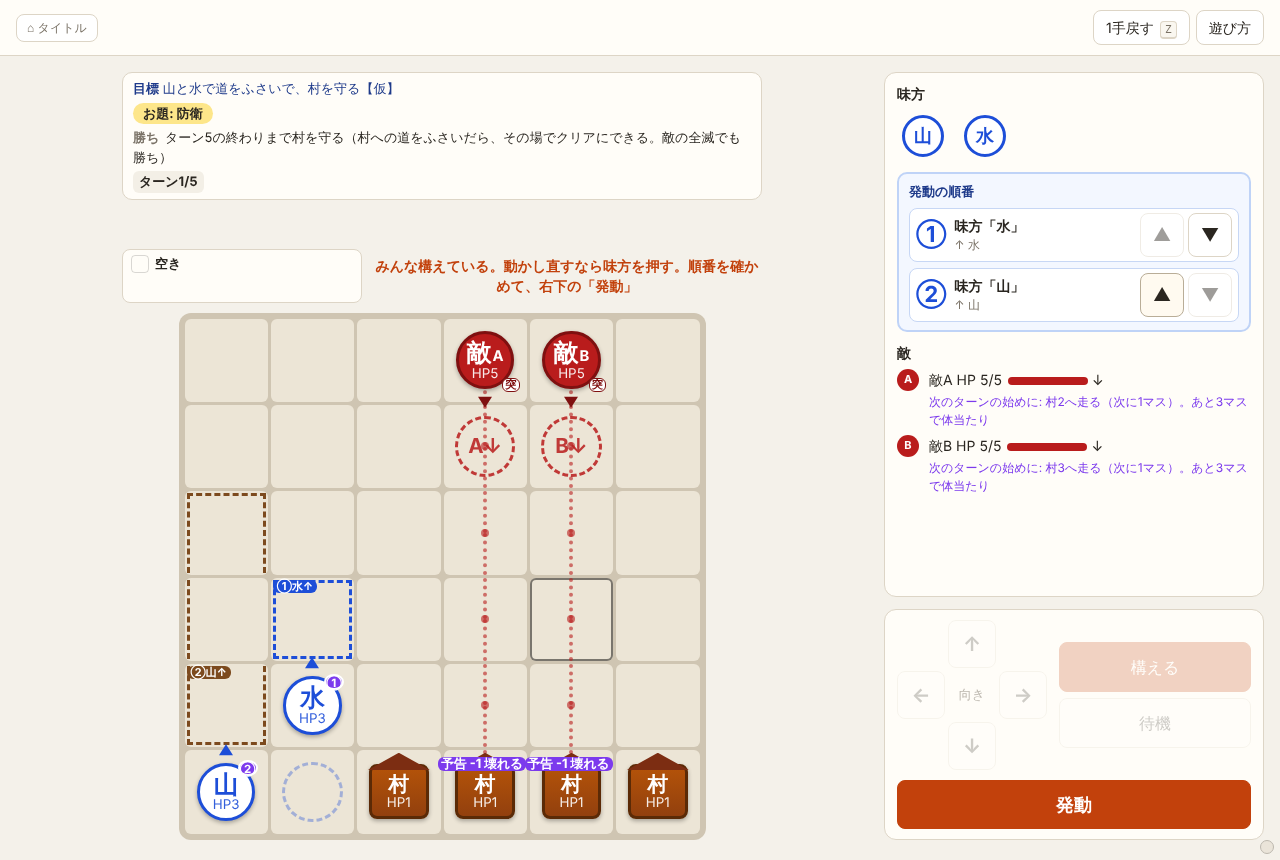
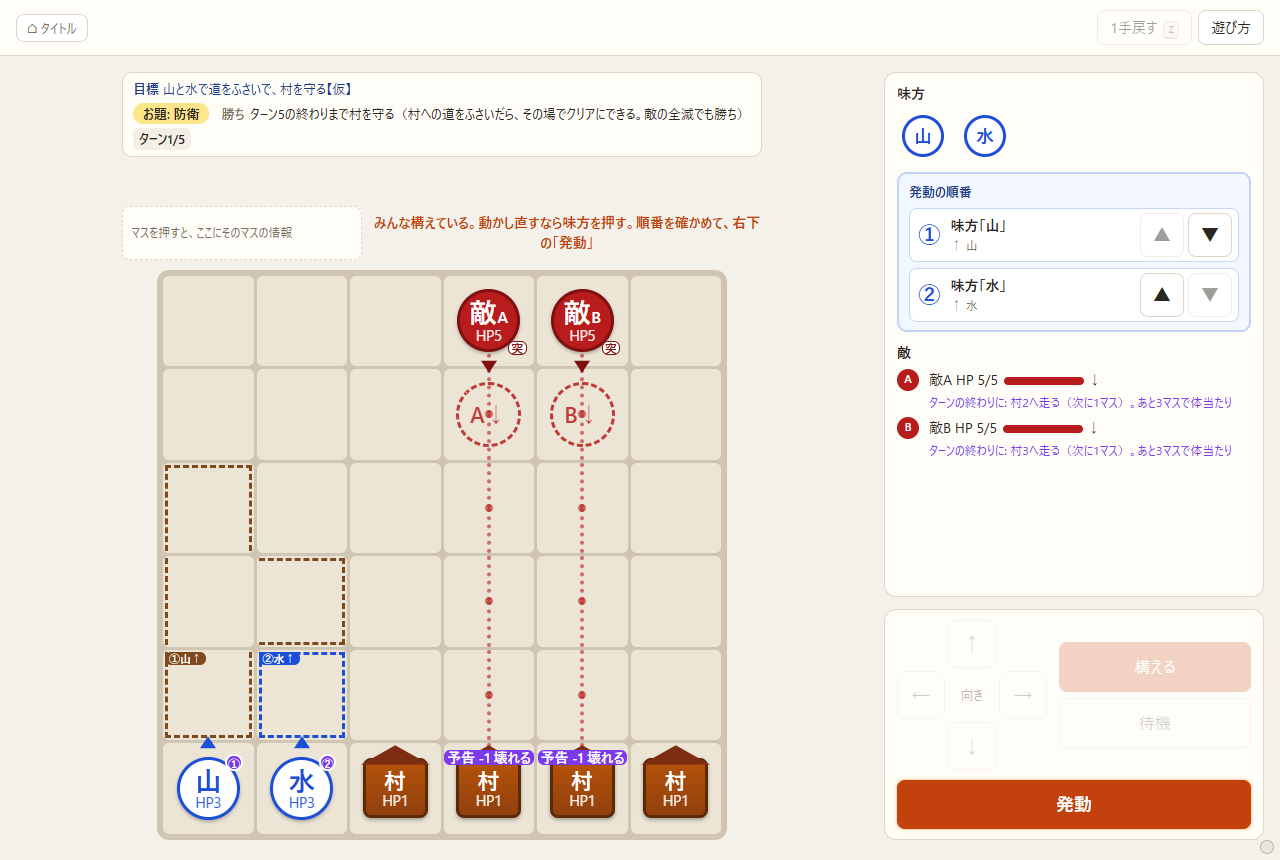
古くなった説明を今に合わせる（オーナー 11/08「直しておいて」）
- 済んだ仕様書 .claude/IMPROVE_設定.md を archive/仕様と調査/ へ移す（CLAUDE.md 11章）。コードの中の場所の書き方も直す（コメントだけ）
- .claude/HD-2D_方針: 頭の「まだ作らない」を「段1〜3 はできた。段4 と展示に出すのはまだ」に。外した tests/snapshot.js と DECISIONS.md の言い方も今に
- NOTES.md: テストの件数（run.js 307件）と settings.js を足す
- docs/img/02_遊ぶ画面.png: 撮り直し（敵の欄が前の「次のターンの始めに」のままだった。今は「ターンの終わりに」）
- docs/img/03_開発の最初の画面.png: 撮り直し（「設定」ボタンが写っていなかった）

diff --git a/game/ui.js b/game/ui.js
@@ -43,7 +43,7 @@
   var KEY_DIR = { ArrowUp: 'up', ArrowRight: 'right', ArrowDown: 'down', ArrowLeft: 'left', w: 'up', a: 'left', s: 'down', d: 'right', W: 'up', A: 'left', S: 'down', D: 'right' };
   var SHORT = { empty: '空き', forest: '森', mountain: '山', river: '川', fire: '炎', smallfire: '小炎', volcano: '火山', mud: '泥沼', puddle: '水たまり', mirage: '蜃気楼', ice: '氷', lava: '溶岩', whirlwind: 'つむじ風', tornado: '竜巻', breeze: '風', firewhirl: '火の渦', sakura: '桜', petals: '花びら', deadforest: '死の森', haunted: 'オバケヤシキ', hill: '丘', thicket: '草むら', gale: '強風', hillsakura: '丘の桜' };
   Object.keys(R.TILE_INFO).forEach(function (t) { if (!SHORT[t]) SHORT[t] = R.TILE_INFO[t].name; });
-  // 設定（オーナー 11/03。game/settings.js・.claude/IMPROVE_設定.md）: 画面の主な色と、名前（自然・マップの字・魔法・シナジー）。
+  // 設定（オーナー 11/03。game/settings.js・archive/仕様と調査/IMPROVE_設定.md）: 画面の主な色と、名前（自然・マップの字・魔法・シナジー）。
   //   開いたらすぐ、このブラウザの写しを当てる。共有の置き場所から読んだら、そちらを当てる（fetchShared）
   var CS = window.CafiliaSettings;
   var SHORT0 = {};
@@ -2503,7 +2503,7 @@
       (dirty ? '<p class="note">まだ展示モードは変わっていません。「この並びで展示する」を押すと変わります。</p>' : app.lineupSaved ? '<p class="note">展示モードの並びを、この並びにしました。</p>' : '');
   }
   // ---------------------------------------------------------------
-  // 設定の画面（開発モード。オーナー 11/03。.claude/IMPROVE_設定.md）: 画面の主な色（RGB）と、名前（自然・マップの字・魔法・シナジー）。
+  // 設定の画面（開発モード。オーナー 11/03。archive/仕様と調査/IMPROVE_設定.md）: 画面の主な色（RGB）と、名前（自然・マップの字・魔法・シナジー）。
   //   変えるとすぐ、このページに当たって見える（下書き app.settingsDraft）。「この設定で保存する」で共有の置き場所へ。
   //   保存すると、どのパソコンの展示モード・開発モードもこの設定で出る（展示の並びと同じ）。やめたら保存した設定に戻す
   // ---------------------------------------------------------------

diff --git a/game/settings.js b/game/settings.js
@@ -1,5 +1,5 @@
 /*
- * settings.js — 設定: 画面の主な色と、名前（自然・マップの字・魔法・シナジー）を変える（オーナー 11/03。.claude/IMPROVE_設定.md）
+ * settings.js — 設定: 画面の主な色と、名前（自然・マップの字・魔法・シナジー）を変える（オーナー 11/03。archive/仕様と調査/IMPROVE_設定.md）
  *   設定は共有の置き場所（Cloudflare の KV の settings。tools/stage_worker.mjs）に置き、展示モードもその設定で出す。
  *   このブラウザにも写し（CACHE_KEY）を覚えて、開いたらすぐ（つながる前に）その色で出す。つながらないときは写しか、元の色と名前。
  *   形: { colors: { '--bg': '#rrggbb', … }, tiles: { forest: { name, label } }, magics: { grass: '草' }, synergies: { 燃え広がり: '…' }, at }

diff --git a/.claude/HD-2D_方針_20261031.md b/.claude/HD-2D_方針_20261031.md
@@ -1,4 +1,4 @@
-# HD-2D にする方針（10/31。まだ作らない）
+# HD-2D にする方針（10/31。段1〜3 はできた。段4 と展示に出すのはまだ）
 
 真上から見下ろす盤面に、角度をつけて**奥行き**を出す。3D の模型にはしない（オーナー 10/31「3D というより、奥行きを付けたい」）。
 絵は平らな画像のまま。盤を傾けて奥を遠くに見せ、キャラ・村・トロッコは今の駒を立て（ビルボード）、山は高く見せる。
@@ -12,7 +12,7 @@
 
 ## 方針
 
-1. **変えるのは見た目だけ。** rules.js・balance.js に触れない。`node tests/run.js`・`tests/scenarios.js`・`tests/snapshot.js` の結果は1文字も変わらない（例外は下の「トロッコ」の名前だけ）。
+1. **変えるのは見た目だけ。** rules.js・balance.js に触れない。`node tests/run.js`・`tests/scenarios.js` の結果は1文字も変わらない（例外は下の「トロッコ」の名前だけ。`tests/snapshot.js` は 11/03 に外した）。
 2. **操作はそのまま。** 画面の ↑ は盤面の奥。十字の向きと盤面の向きがずれない。
 3. **見た目で、ルールにないことを約束しない**（2章「魔法を現実に存在させる。信頼」）。高さはルールにある分だけ見せる（丘・山・頂上）。「山の陰に隠れられそう」に見せない。
 4. **読みやすさが先、雰囲気はその次**（3章）。予告・予測・向きは今と同じだけ読める。
@@ -48,9 +48,9 @@
 | 3 | 立てる（キャラ・村・トロッコ） | 向きが読めるか。絵が入るまでは今の駒を立てる |
 | 4 | 光とぼかし（あとで。要るなら） | 奥行きが増すか・重くないか |
 
-各段で遊べる状態にして、内蔵ブラウザで見せる。決めたことは DECISIONS.md に1行。
+各段で遊べる状態にして、内蔵ブラウザで見せる。決めたことはコミットに書く（CLAUDE.md 9章）。
 
-**10/31 の夕方: 段1〜3 を作った（コミットはまだ）。** 段4（光とぼかし）はまだ。展示はまだ真上（mode.js の `EXHIBIT_VIEW`）。
+**段1〜3 はできた（10/31。コミット 8bfeea4）。** 段4（光とぼかし）はまだ。展示はまだ真上（mode.js の `EXHIBIT_VIEW`）。
 数値は style.css の `--tilt`（傾き 36°）・`--persp`（遠近 1600px）・`--lvh`（1段の高さ = マスの幅 × 0.22）。平行投影にしたいときは `--persp` を大きく（例 100000px）すれば、奥のマスも同じ大きさになる。
 
 あとでやる（別の作業）: **シナリオパート**。立ち絵が交互に明るくなって喋る。盤面と同じキャラの絵を使う。

diff --git a/NOTES.md b/NOTES.md
@@ -25,7 +25,7 @@
 
 ### テスト（11/03 に今のルールに合わせた）
 
-`tests/run.js`（300件）・`tests/scenarios.js`・`tests/simul.js`・`tests/ex3.js`・`tests/stages.js`・`tests/stage_api.js` は、すべて通る。
+`tests/run.js`（307件）・`tests/scenarios.js`・`tests/simul.js`・`tests/ex3.js`・`tests/stages.js`・`tests/stage_api.js`・`tests/settings.js` は、すべて通る（11/08 に確かめた）。
 
 - 落ちていたのは、オーナーが決めてルールを変えたのにテストを直していなかったもの（10/29 の値そろえ: 水1マス・燃え広がり3・どの山にも斜面・①の風の上書きを外す。10/30: 足元にも山・頂上と腕の印をやめる・通り抜け・③の組み直し）。今の動きが法則どおりかを1件ずつ確かめてから、期待を今に合わせた。
 - 法則のテストのうち長さに関わるものは、数を `balance.js` から読む。昔の切り替え（【元】の池・斜面なしの源流・竜巻の作り方、切ってある「育つ」）のテストは、その盤面に昔の水の設定（`OLD_WATER`）を書いて確かめる。
